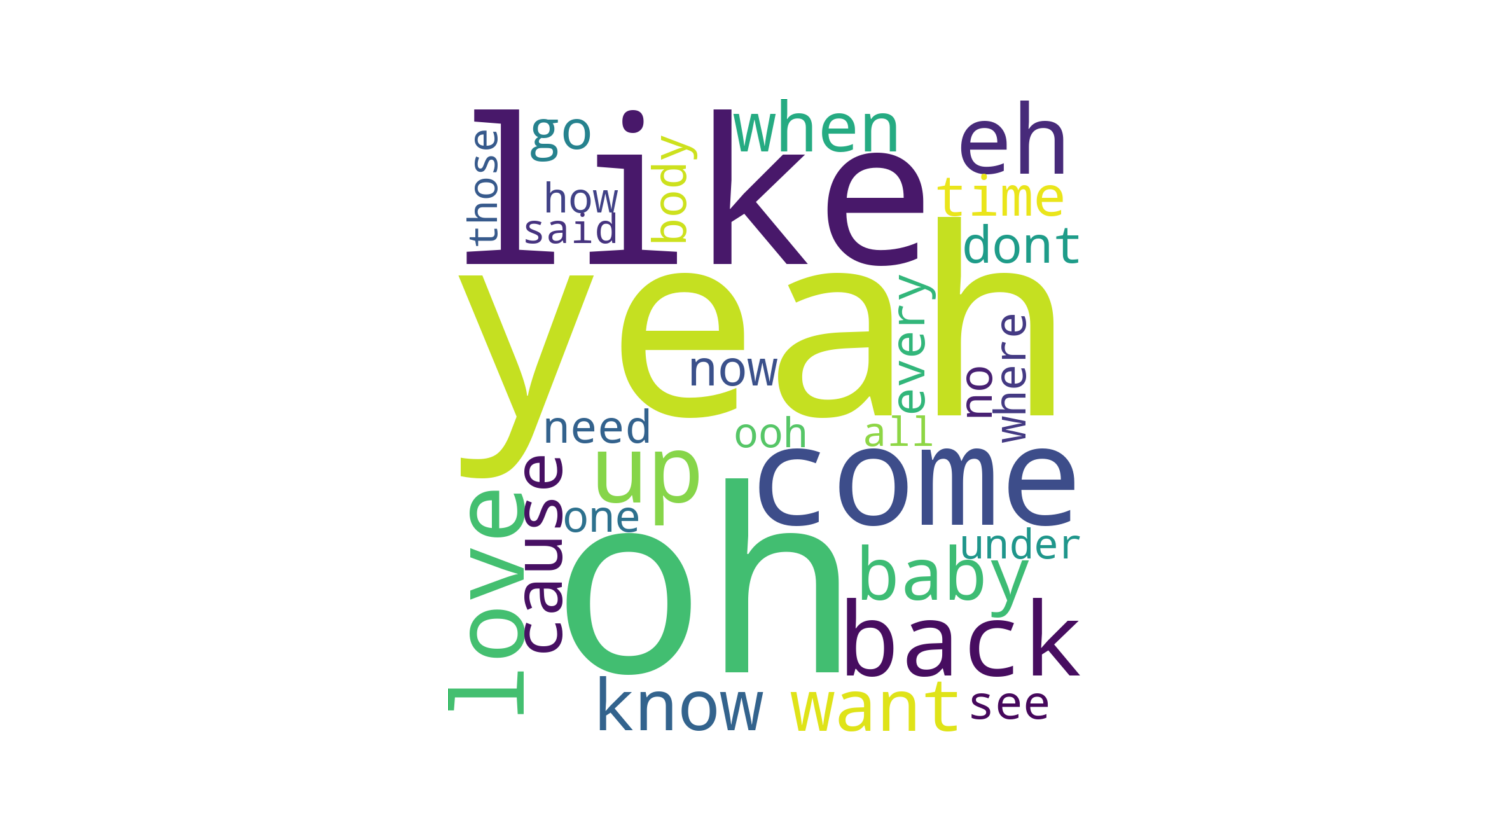
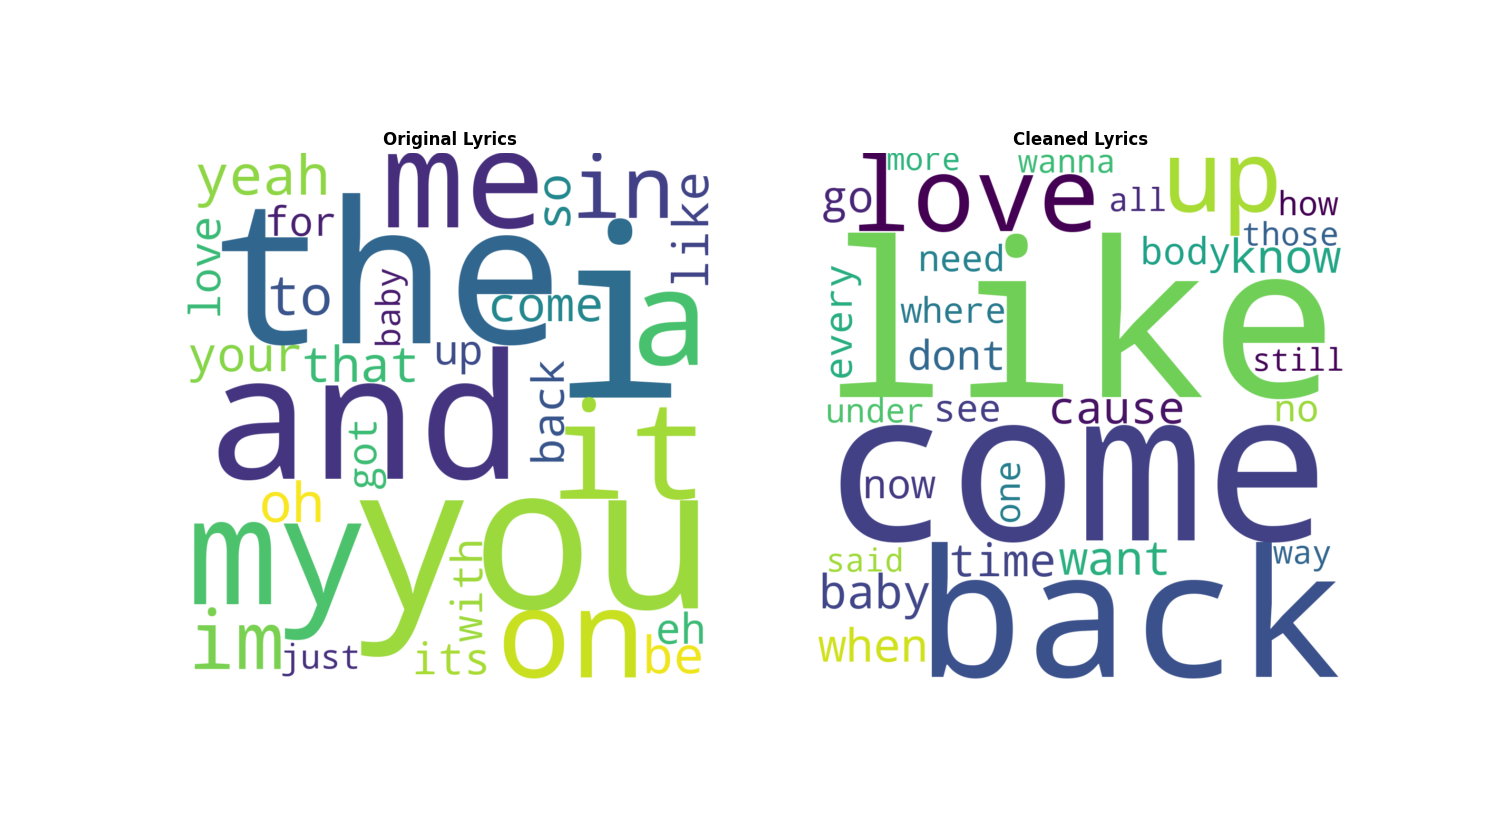
exploring the theme of love

Changed region(s): [[0.1232, 0.1212, 0.8935, 0.9091]]

diff --git a/Python_scripts/Outputs_scripts/love_theme.py b/Python_scripts/Outputs_scripts/love_theme.py
@@ -1,0 +1,69 @@
+#Prominence of love as a theme in these songs
+#import libraries
+import numpy as np
+import pandas as pd
+import matplotlib.pyplot as plt
+import sqlite3
+
+#Open connection to database
+with sqlite3.connect('song_lyrics.db') as connection:
+    cursor = connection.cursor()
+    #query to select words 'love', 'baby'
+    select_words_query = '''
+    SELECT word,frequency, genre, artist
+    FROM lyrics l, song s
+    WHERE (word = 'love' or word = 'baby') AND l.song_id = s.song_id'''
+
+    love_df = pd.DataFrame(cursor.execute(select_words_query).fetchall(), columns = ['word', 'frequency', 'genre', 'artist'])
+    #Make bar charts for each genre showing the frequenct for 'love' and 'baby' for each artist and an average across the genre
+    #each genre on its own subplot. Stacked bar chart.
+    fig, axs = plt.subplots(1,3)
+    count = 0
+    #Want a chart for each genre, so loop through genres
+    for genre in love_df['genre'].unique():
+        genre_love_df = love_df[love_df['genre'] == genre].reset_index(drop = True)
+        ax = fig.add_subplot(axs[count])
+        #need a frequency for every artist for every word so if word doesnt exist for artist frequency needs to be 0
+        add_zeros = pd.DataFrame(columns = ['word','frequency','genre','artist'])
+        for artist in genre_love_df['artist'].unique():
+            for word in ['love','baby']:
+                print(word)
+                print(str(genre_love_df['word'][genre_love_df['artist'] == artist]))
+                if word not in str(genre_love_df['word'][genre_love_df['artist'] == artist]):
+                    add_zeros = pd.concat([add_zeros,pd.DataFrame({'word': word,'frequency': 0, 'genre': genre, 'artist': artist}, index = [len(add_zeros)])]).reset_index(drop = True)
+                else:
+                    continue
+        genre_love_df = pd.concat([genre_love_df,add_zeros]).sort_values(by = ['artist','word']).reset_index(drop = True)
+
+        #add average across genre
+        genre_df = genre_love_df[['genre','word','frequency']].groupby(['genre','word'], as_index = False).mean()
+        genre_df['artist'] = 'average'
+        genre_love_df = pd.concat([genre_love_df, genre_df]).sort_values(by = ['artist','word']).reset_index(drop = True)
+        print(genre_love_df)
+        #dictionary of lyric and frequencies
+        lyrics = {
+            'love': np.array(genre_love_df['frequency'][genre_love_df['word'] == 'love']),
+            'baby': np.array(genre_love_df['frequency'][genre_love_df['word'] == 'baby'])
+        }
+        print(lyrics.items())
+        print(genre_love_df['artist'].unique())
+        
+        #make stacked bar graphs
+        bottom = 0
+        for boolean, frequency in lyrics.items():
+            print('frequency; ', frequency)
+            axs[count] = ax.bar(genre_love_df['artist'].unique(), frequency, width = 0.5, label = boolean, bottom = bottom, color = '#5dde5b' if boolean == 'love' else '#4c97d9')
+            bottom += frequency
+        
+        #Format graph
+        ax.set_title(genre, fontsize = 14, fontweight = 'bold')
+        ax.set_yticks(np.arange(0,31,5))
+        ax.minorticks_on()
+        ax.set_ylabel('Frequency', fontweight = 'bold')
+        ax.set_xlabel('Artist', fontweight = 'bold')
+        ax.grid(linestyle = '--', alpha = 0.5, axis = 'y')
+        ax.set_xticklabels(labels = genre_love_df['artist'].unique(),rotation = 'vertical')
+        ax.legend()
+        count += 1
+
+plt.show()

diff --git a/Python_scripts/Outputs_scripts/common_words_by_gender.py b/Python_scripts/Outputs_scripts/common_words_by_gender.py
@@ -44,7 +44,7 @@ with sqlite3.connect('song_lyrics.db') as connection:
     WHERE s.gender = 'female' AND l.song_id = s.song_id ;
     '''
     #In order for our results to be interesting and tell us something, we want to disclude conjunctions and common words like the, and, a, and etc.
-    eliminate = ['the','but','can','this','if','youre','and','a','to','of','in','is','you','that','it','for','an', 'was', 'on', 'i', 'me', 'its','with','just','my','im','your','we','be','your','get','got','so']
+    eliminate = ['umbrellaâellaâella','uhhuh','oh','ill','ooh','eh','yeah','the','but','can','this','if','youre','and','a','to','of','in','is','you','that','it','for','an', 'was', 'on', 'i', 'me', 'its','with','just','my','im','your','we','be','your','get','got','so']
     #make dataframe of words
     common_words_df = pd.DataFrame(cursor.execute(select_words_query).fetchall()).groupby(0, as_index = False).sum().sort_values(by = 1,ascending = False)
     #remove words

diff --git a/Python_scripts/Outputs_scripts/common_words.py b/Python_scripts/Outputs_scripts/common_words.py
@@ -15,7 +15,7 @@ with sqlite3.connect('song_lyrics.db') as connection:
     FROM lyrics;
     '''
     #In order for our results to be interesting and tell us something, we want to disclude conjunctions and common words like the, and, a, and etc.
-    eliminate = ['oh','ill','ooh','eh','yeah','the','but','can','this','if','youre','and','a','to','of','in','is','you','that','it','for','an', 'was', 'on', 'i', 'me', 'its','with','just','my','im','your','we','be','your','get','got','so']
+    eliminate = ['oh','eh','ill','ooh','eh','yeah','the','but','can','this','if','youre','and','a','to','of','in','is','you','that','it','for','an', 'was', 'on', 'i', 'me', 'its','with','just','my','im','your','we','be','your','get','got','so']
     
     #make dataframe of words
     common_words_df = pd.DataFrame(cursor.execute(select_words_query).fetchall()).groupby(0, as_index = False).sum().sort_values(by = 1,ascending = False)

diff --git a/Python_scripts/Outputs_scripts/top_artists_streams_graph.py b/Python_scripts/Outputs_scripts/top_artists_streams_graph.py
@@ -38,8 +38,8 @@ ax2.set_xlabel('Total Streams (millions)', fontweight = 'bold', color = '#5dde5b
 plt.ylabel('Artist', fontweight = 'bold')
 
 ax.set_yticks(ticks= range(0,10), labels= top_artists['Artist and Song'], minor=False)
-ax2.set_xticks(np.arange(0,140000,10000))
-ax.set_xticks(np.arange(0,7000, 500))
+ax2.set_xticks(np.arange(0,150000,10000))
+ax.set_xticks(np.arange(0,7500, 500))
 
 plt.title('Top 10 Spotify Artists and their Total Streams', color = 'black', fontsize = 14, fontweight = 'bold')
 plt.grid(linestyle = '--', alpha = 0.5, axis = 'x')

diff --git a/Python_scripts/Outputs_scripts/word_count_graphs.py b/Python_scripts/Outputs_scripts/word_count_graphs.py
@@ -57,7 +57,7 @@ axs[0].set_xticklabels(labels =np.arange(250,800, 25), rotation = 'vertical')
 percentage = []
 for i,txt in enumerate(word_count_df[0]):
     percentage.append((unique_word_count[i]/word_count[i])*100)
-
+print(percentage)
 #set the order of the bars in descending order
 word_count_df['percentage'] = percentage
 word_count_df.sort_values(by= 'percentage', ascending = False, inplace = True)
